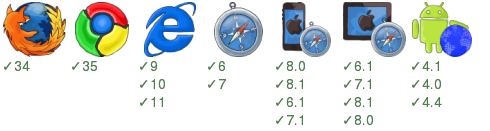
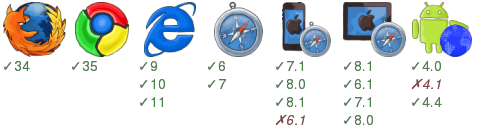
Auto push new examples from zordius/fluxex@98d6043f1b5b095d408f54c3ebdffced7d49ed16

diff --git a/00hello/badge.html b/00hello/badge.html
@@ -28,20 +28,20 @@ div{vertical-align:top;overflow:hidden;display:inline-block;width:92px;padding:4
 <p>&#x2713;7</p>
 </div><div>
 <img src="/home/travis/build/zordius/fluxex/examples/00hello/node_modules/badge-render/browser-badge/static/iphone.png" />
+<p>&#x2713;7.1</p>
 <p>&#x2713;8.0</p>
 <p>&#x2713;8.1</p>
-<p>&#x2713;6.1</p>
-<p>&#x2713;7.1</p>
+<i>&#x2717;6.1</i>
 </div><div>
 <img src="/home/travis/build/zordius/fluxex/examples/00hello/node_modules/badge-render/browser-badge/static/ipad.png" />
+<p>&#x2713;8.1</p>
 <p>&#x2713;6.1</p>
 <p>&#x2713;7.1</p>
-<p>&#x2713;8.1</p>
 <p>&#x2713;8.0</p>
 </div><div>
 <img src="/home/travis/build/zordius/fluxex/examples/00hello/node_modules/badge-render/browser-badge/static/android-browser.png" />
-<p>&#x2713;4.1</p>
 <p>&#x2713;4.0</p>
+<i>&#x2717;4.1</i>
 <p>&#x2713;4.4</p>
 </div></body>
 </html>
